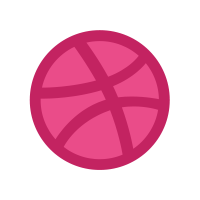
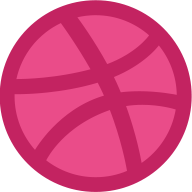
;

diff --git a/eimearcooney.html b/eimearcooney.html
@@ -50,6 +50,7 @@
      <div class="grid-item">Travel App</div>
       <div class="grid-item">Brand Guidelines</div>
   <div class="grid-item"><img src="image/Untitled-1.jpg"></div>
+    <div class="grid-item"><img src="image/inofheadingai.png"></div>
 </div>
 
    </section> 
@@ -59,11 +60,15 @@
     <h3 id="contacts">Contacts</h3>
     <hr>
     <p>You are reach me though my socail media links</p>
+    
     <div class="grid-containercontact">
-    <div class="grid-item"><img src="image/dribbble-ball-dnld-35eba27acd4710f90ea9aa7ad8037fbb19ad997078531844fd34456b4c6551e4.png"  alt="https://dribbble.com/eimercooney"></div>
-  <div class="grid-item"><img src="image/instagram-colourful-icon.png" alt="https://instagram.com/eimerdesign"></div> 
-  <div class="grid-item"><img src="image/twitter-logo-final.png" alt="https://twitter.com/eimercooney"></div>
-    <div class="grid-item"><img src="image/tumblr-icon.png" alt="https://www.tumblr.com/blog/eimearcooney">
+        <div class="grid-item"><a href="https://instagram.com/eimerdesign"><img src="image/instagram-colourful-icon.png"></a></div> 
+        
+        <div class="grid-item"><a href="https://twitter.com/eimercooney"><img src="image/twitter-logo-final.png"></a></div>
+        
+        <div class="grid-item"><a href="https://dribbble.com/eimercooney"><img src="image/dribbble-ball-dnld-35eba27acd4710f90ea9aa7ad8037fbb19ad997078531844fd34456b4c6551e4.png"></a></div>
+        
+        <div class="grid-item"><a href="https://www.tumblr.com/blog/eimearcooney"><img src="image/tumblr-icon.png"></a>
     </div>
     </div>
     

diff --git a/style.css b/style.css
@@ -68,7 +68,7 @@ h1 {margin-top: 100px;}
 .grid-item {
   background-color: white;
   border: 0px solid rgba(0, 0, 0, 0.8);
-  padding: 10px;
+  padding: 60px;
   text-align: center;
 }
 
